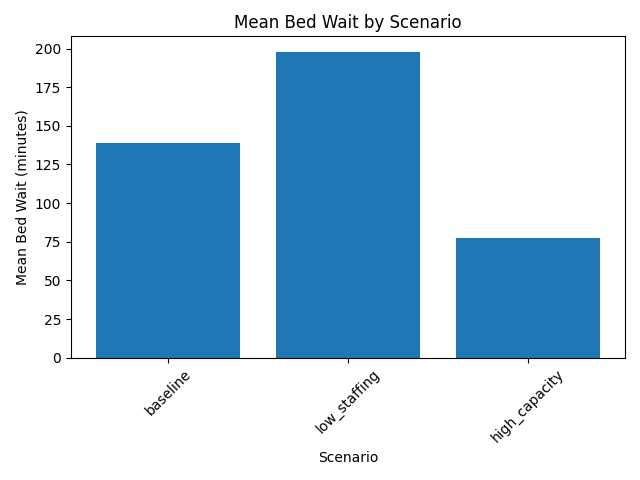
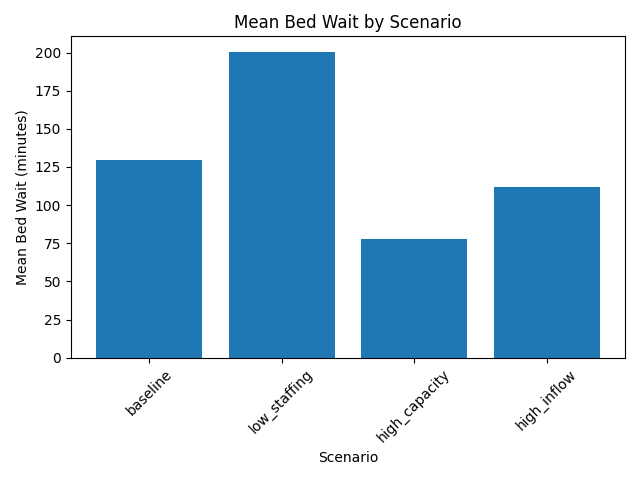
M5 scenario summary fixed with high inflow scenario

diff --git a/cs4632-er-sim/src/m5_scenario_summary.py b/cs4632-er-sim/src/m5_scenario_summary.py
@@ -2,44 +2,42 @@ import pandas as pd
 import glob
 import os
 
-data_dir = "data/m3_batch_runs"
-out_dir = "M5_Analysis/scenarios"
-os.makedirs(out_dir, exist_ok=True)
-
-scenario_groups = {
-    "baseline": "*beds5_labs1*.csv",
-    "high_inflow": "*lam1.2*.csv",
-    "low_staffing": "*beds3_labs1*.csv",
-    "high_capacity": "*beds8_labs3*.csv"
+scenarios = {
+    "baseline": "data/m3_batch_runs/run_seed14*_beds5_labs1.csv",
+    "low_staffing": "data/m3_batch_runs/run_seed14*_beds3_labs1.csv",
+    "high_capacity": "data/m3_batch_runs/run_seed14*_beds8_labs3.csv",
+    "high_inflow": "M5_Analysis/scenarios/high_inflow/run_seed18*_beds5_labs1.csv"
 }
+
+output_dir = "M5_Analysis/scenarios"
+os.makedirs(output_dir, exist_ok=True)
 
 rows = []
 
-for name, pattern in scenario_groups.items():
-    files = glob.glob(os.path.join(data_dir, pattern))
+for name, pattern in scenarios.items():
+    files = sorted(glob.glob(pattern))
 
-    total = []
-    triage = []
-    bed = []
-
+    all_data = []
     for f in files:
         df = pd.read_csv(f)
-        total.extend(df["total_time"])
-        triage.extend(df["triage_wait"])
-        bed.extend(df["bed_wait"])
+        all_data.append(df)
 
-    if total:
-        rows.append({
-            "Scenario": name,
-            "Mean Total Time": sum(total) / len(total),
-            "Mean Triage Wait": sum(triage) / len(triage),
-            "Mean Bed Wait": sum(bed) / len(bed),
-            "Patients": len(total)
-        })
+    combined = pd.concat(all_data)
 
-summary = pd.DataFrame(rows)
-summary_path = os.path.join(out_dir, "m5_scenario_statistical_summary.csv")
-summary.to_csv(summary_path, index=False)
+    rows.append({
+        "Scenario": name,
+        "Mean Total Time": combined["total_time"].mean(),
+        "Mean Triage Wait": combined["triage_wait"].mean(),
+        "Mean Bed Wait": combined["bed_wait"].mean(),
+        "Patients": len(combined)
+    })
+
+summary_df = pd.DataFrame(rows)
+summary_path = os.path.join(output_dir, "m5_scenario_statistical_summary.csv")
+summary_df.to_csv(summary_path, index=False)
 
 print("Scenario summary created at:")
 print(summary_path)
+
+0
+
